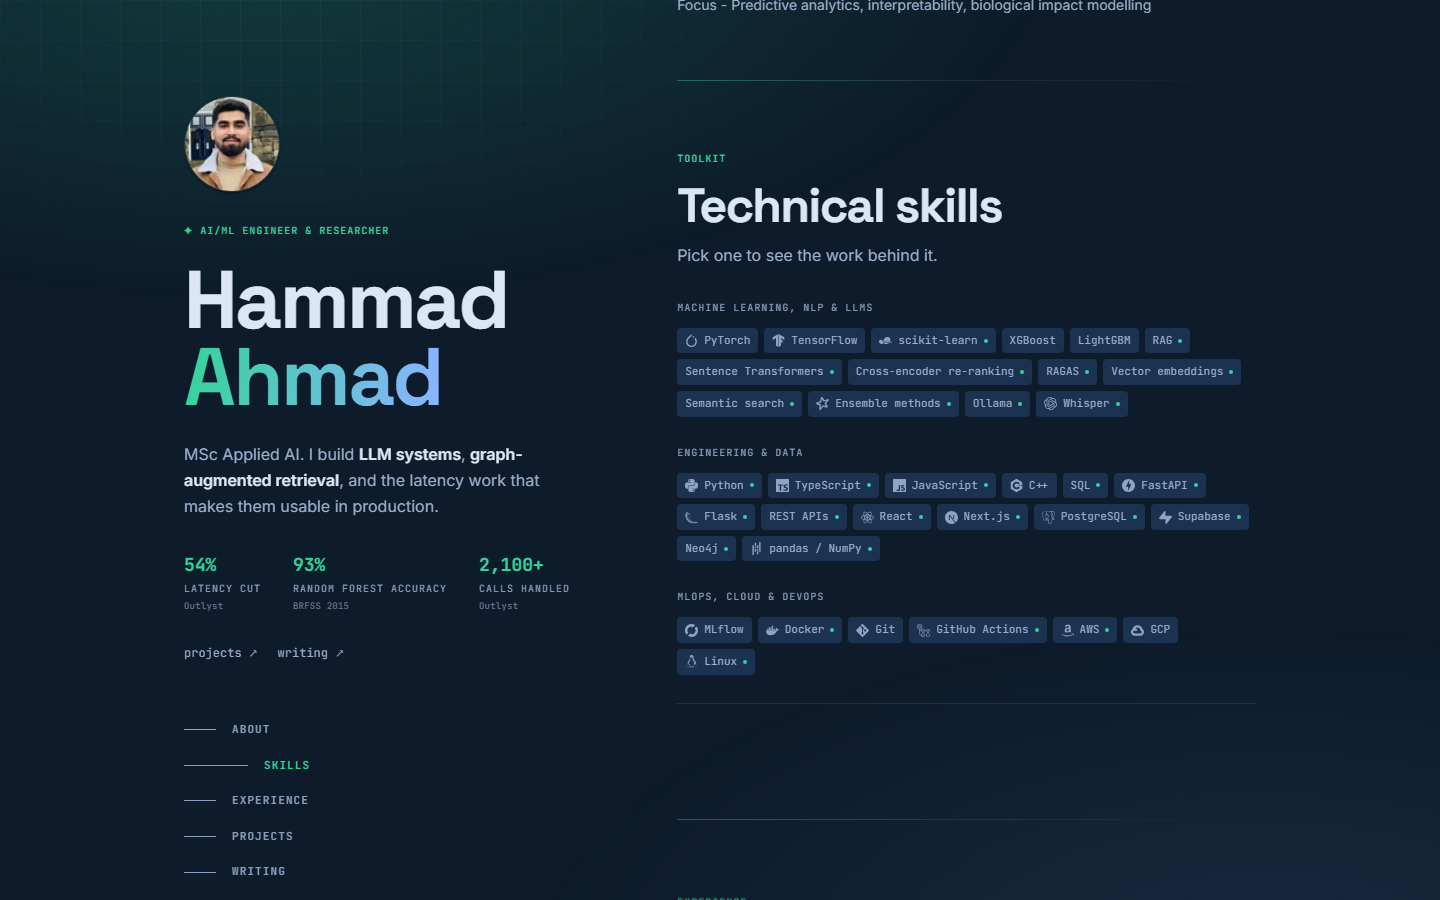
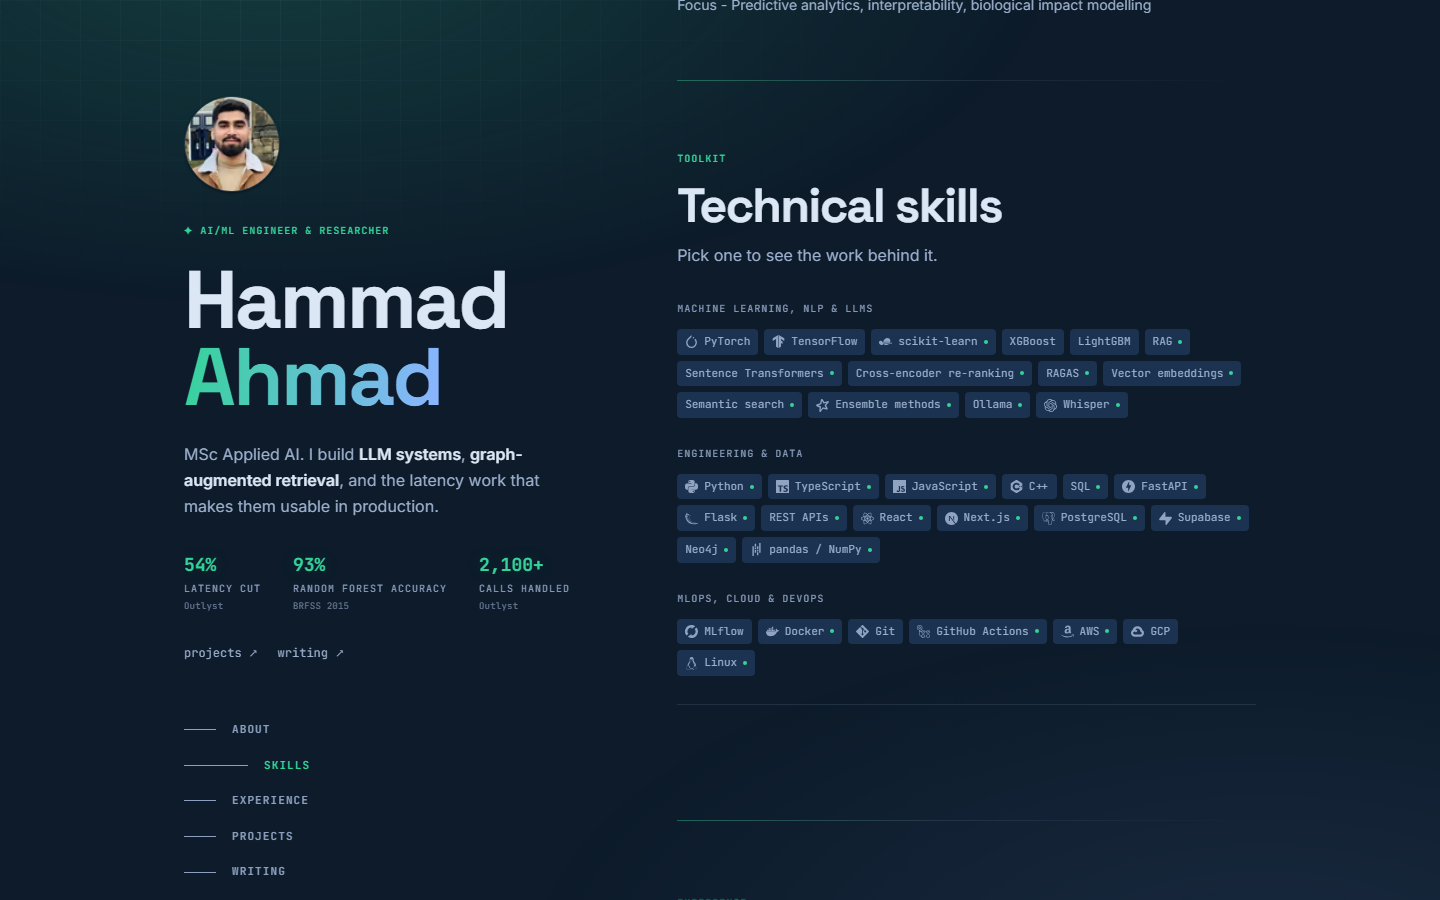
refresh the screenshots and correct the README
All screenshots recaptured against the live site, which had drifted a long
way from them: the profile copy, the (Merit) classification, the tightened
reading measure, the Jobzyl live-jobs hero and the removal of the in-page
chat section were all absent from the old shots.

Two new ones for the two features that had none: the project-row hover
preview, and the Ctrl+K chat console.

Corrections to claims that were no longer true:

- The terminal easter egg line is gone. That shell was retired; Ctrl+K now
  opens the real agent console, from any page rather than just the home page.
- The sections list no longer includes Agent, and the components tree gains
  AskAgentChip, AgentConsole, ProjectPreview, IntroOverlay and ChatRailButton,
  plus lib/post-labels.
- "Self-hosted via next/font, zero external font requests" was true of the
  shipped site and false of the build. next/font/google fetches from Google
  Fonts at build time, which failed a build here today on a commit that
  passed on re-run with no code change. The fonts section now says so, quotes
  the error, and notes that a lone font-fetch failure is transient before
  anyone goes hunting for a real cause.

Features list gains the hover previews and the entrance intro.

diff --git a/README.md b/README.md
@@ -54,6 +54,16 @@ Next.js 15 App Router, TypeScript, Tailwind. No animation library, no CMS, no UI
 </td>
 </tr>
 <tr>
+<td width="50%" valign="top">
+<a href="https://hammadahmad.co.uk/#projects"><img src=".github/assets/hover-preview.png" alt="Hovering a project row shows a floating preview panel cycling that project's visuals"></a>
+<sub><b>Hover a project, see it work.</b> A pointer-following panel cycles that project's own case-study visuals. It is <code>pointer-events: none</code>, which is what stops it stealing hover from the row underneath, so travelling between rows never flickers.</sub>
+</td>
+<td width="50%" valign="top">
+<a href="https://hammadahmad.co.uk"><img src=".github/assets/chat-console.png" alt="The agent chat console open in the bottom right corner of the home page"></a>
+<sub><b>Ask the agent anything.</b> <kbd>Ctrl</kbd>+<kbd>K</kbd> anywhere on the site opens a chat console grounded in the CV. Real LLM, rate-limited per session, with prompt-injection guards in front of it.</sub>
+</td>
+</tr>
+<tr>
 <td colspan="2" valign="top">
 <a href="https://hammadahmad.co.uk/projects/finlaw-uk"><img src=".github/assets/demo.png" alt="Interactive benchmark explorer showing a question, gold answer, and required citations"></a>
 <sub><b>Interactive demos that only ever render real data.</b> The FinLaw benchmark explorer serves 10 verbatim items from the published 110-item eval set; the diabetes factor explorer runs on BRFSS 2015. Nothing here is illustrative filler.</sub>
@@ -67,13 +77,14 @@ Next.js 15 App Router, TypeScript, Tailwind. No animation library, no CMS, no UI
 
 - **Editorial home page** - two-column layout with a sticky identity rail and scroll-spy nav, covering About, Skills, Experience, Projects, Writing, Publications, and Contact
 - **Six project case studies** with hand-built SVG visuals, results charts, and two interactive demos backed by published data only
+- **Hover previews on the project rows** - a pointer-following panel that cycles each project's own visuals, capability-gated so touch devices attach no handlers at all
+- **AI chat console** (Groq, `llama-3.1-8b-instant`) on <kbd>Ctrl</kbd>+<kbd>K</kbd> from any page, with prompt-injection guards in `lib/agent-guard.ts`
 - **Interactive skills section** that derives skill → project links from real data instead of a maintained mapping
 - **Blog** with table of contents, reading progress, copy-link headings, prev/next, and a DynamoDB-backed admin panel
-- **AI chat assistant** (Groq, `llama-3.1-8b-instant`) with prompt-injection guards in `lib/agent-guard.ts`
 - **Contact form** with AWS SES delivery, plus CV downloads with tracking
 - **SEO** - per-page OpenGraph images, JSON-LD (Person, ScholarlyArticle, BlogPosting, BreadcrumbList, CollectionPage), sitemap, robots, web manifest
 - **Dark/light theming** on CSS custom properties, toggled client-side
-- Press <kbd>Ctrl</kbd> + <kbd>`</kbd> anywhere on the site for the terminal easter egg
+- **A sub-second entrance intro**, once per session, decided before first paint so it never covers an already-painted page
 
 ## Tech stack
 
@@ -82,7 +93,7 @@ Next.js 15 App Router, TypeScript, Tailwind. No animation library, no CMS, no UI
 | Framework | Next.js 15 (App Router), React 18 | ISR on the home page, static case studies |
 | Language | TypeScript 5.5, Node 20+ | `tsc --noEmit` is part of CI |
 | Styling | Tailwind CSS 3.4 | CSS custom properties carry the token layer |
-| Type / fonts | Inter, Space Grotesk, JetBrains Mono | Self-hosted via `next/font`, zero external font requests |
+| Type / fonts | Inter, Space Grotesk, JetBrains Mono | `next/font/google` - self-hosted at runtime, fetched at build time (see the note below) |
 | Visuals | Hand-authored SVG | No chart library, no animation library |
 | AI agent | Groq - `llama-3.1-8b-instant` | Input filter + output canary in front of it |
 | Email | AWS SES | Contact form delivery |
@@ -211,17 +222,18 @@ app/
   blog/, projects/→ Listings, detail pages, and per-slug opengraph-image routes
 components/
   blog/           → PostCard, TableOfContents, CopyLink
-  case-study/     → CaseStudyLayout, ListingCard
-  interactive/    → Theme toggle, chat agent, terminal, CountUp, analytics beacon
-  layout/         → LeftRail + RailNav (home identity rail), Footer
+  case-study/     → CaseStudyLayout, ListingCard, AskAgentChip
+  interactive/    → Theme toggle, TerminalAgent + AgentConsole (Ctrl+K),
+                    ProjectPreview (hover panel), IntroOverlay, CountUp, beacon
+  layout/         → LeftRail + RailNav (home identity rail), ChatRailButton, Footer
   project-visuals/→ Per-project hero, architecture, results, and demo visuals
   sections/       → About, Skills, Experience, HomeProjects, HomeWriting,
-                    Publications, Agent, Contact, CvDownloads
+                    Publications, Contact, CvDownloads
   ui/             → SectionHeader
 hooks/            → useTerminalAgent, useTypewriter
-lib/              → constants, case-studies, cv-config, seed-posts, blog-db, auth,
-                    aws, agent-system-prompt, agent-guard, markdown, metadata,
-                    json-ld, og-font, reading-time, demo-data
+lib/              → constants, case-studies, cv-config, post-labels, seed-posts,
+                    blog-db, auth, aws, agent-system-prompt, agent-guard, markdown,
+                    metadata, json-ld, og-font, reading-time, demo-data
 types/            → TypeScript interfaces
 public/cv/        → Downloadable CVs
 ```
@@ -277,7 +289,16 @@ An 8B model does not hold the line on instructions alone, so `lib/agent-guard.ts
 
 <br>
 
-Inter (body), Space Grotesk (`--font-display`, all headings), and JetBrains Mono (`--font-mono`, eyebrows and metrics), self-hosted via `next/font` with no external font requests. The OG image route embeds Space Grotesk as base64 in `lib/og-font.ts`, because satori cannot read woff2.
+Inter (body), Space Grotesk (`--font-display`, all headings), and JetBrains Mono (`--font-mono`, eyebrows and metrics). The OG image route embeds Space Grotesk as base64 in `lib/og-font.ts`, because satori cannot read woff2.
+
+**The build has a network dependency, and it will fail on you.** `next/font/google` self-hosts the fonts in the build *output*, so the shipped site makes no external font requests - but it fetches them from Google Fonts *during the build*. A Google Fonts blip therefore fails the build outright:
+
+```
+NextFontError: Failed to fetch `JetBrains Mono` from Google Fonts.
+> Build failed because of webpack errors
+```
+
+That happened here on a green commit and passed on re-run with no code change, so treat a lone font-fetch failure as transient before hunting for a real cause. It can hit the Amplify build as easily as CI. The permanent fix is `next/font/local` with the woff2 files committed, which removes the dependency entirely.
 
 </details>
 
